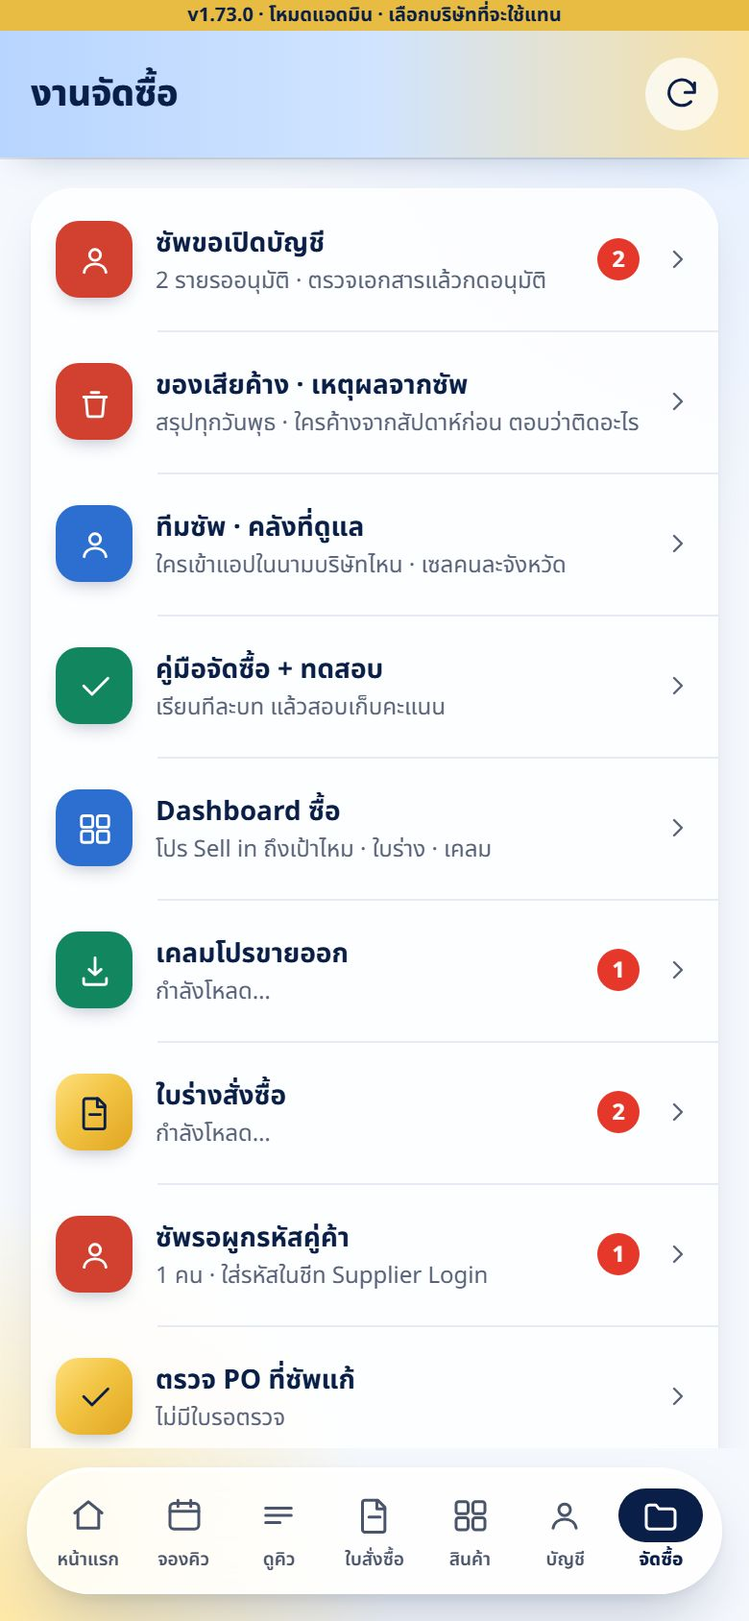
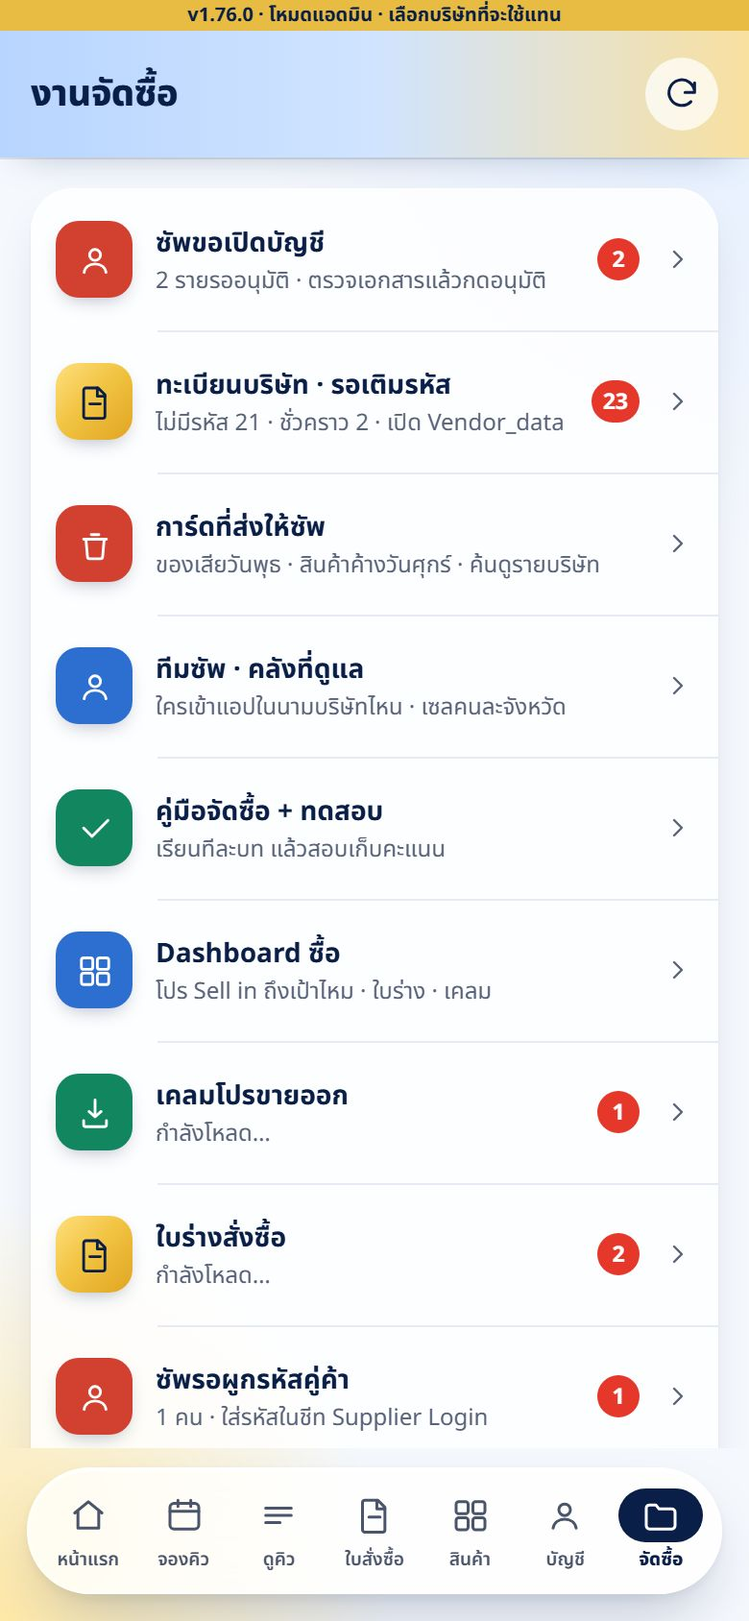
SupplyLink v1.76.0: หน้าจัดซื้อ การ์ดที่ส่งให้ซัพ (ของเสียพุธ + สินค้าค้างศุกร์ ค้นรายบริษัท) · คู่มือจัดซื้อ v1.6.0

diff --git a/supplylink-buyer-guide.html b/supplylink-buyer-guide.html
@@ -3,7 +3,7 @@
 <head>
 <meta charset="utf-8">
 <meta name="viewport" content="width=device-width,initial-scale=1,viewport-fit=cover">
-<title>คู่มือจัดซื้อ SupplyLink v1.5.0</title>
+<title>คู่มือจัดซื้อ SupplyLink v1.6.0</title>
 <link rel="preconnect" href="https://fonts.googleapis.com">
 <link href="https://fonts.googleapis.com/css2?family=Noto+Sans+Thai:wght@400;500;600;700&display=swap" rel="stylesheet">
 <style>
@@ -192,8 +192,8 @@ button{font:inherit;cursor:pointer}
 
 <script>
 (function () {
-  var VER = 'v1.5.0', APP = 'rattana-supplylink.html';
-  var IMG = {"bb":"supplylink-buyer-guide/bb.jpg","bcl":"supplylink-buyer-guide/bcl.jpg","bclo":"supplylink-buyer-guide/bclo.jpg","bclp":"supplylink-buyer-guide/bclp.jpg","bcls":"supplylink-buyer-guide/bcls.jpg","bd":"supplylink-buyer-guide/bd.jpg","bdc":"supplylink-buyer-guide/bdc.jpg","bdh":"supplylink-buyer-guide/bdh.jpg","bdn":"supplylink-buyer-guide/bdn.jpg","bdr":"supplylink-buyer-guide/bdr.jpg","bdw":"supplylink-buyer-guide/bdw.jpg","bh":"supplylink-buyer-guide/bh.jpg","binc":"supplylink-buyer-guide/binc.jpg","boa":"supplylink-buyer-guide/boa.jpg","bob":"supplylink-buyer-guide/bob.jpg","boc":"supplylink-buyer-guide/boc.jpg","bod":"supplylink-buyer-guide/bod.jpg","boe":"supplylink-buyer-guide/boe.jpg","bpd":"supplylink-buyer-guide/bpd.jpg","bpo":"supplylink-buyer-guide/bpo.jpg","bpr":"supplylink-buyer-guide/bpr.jpg","bq":"supplylink-buyer-guide/bq.jpg","brv":"supplylink-buyer-guide/brv.jpg","brvb":"supplylink-buyer-guide/brvb.jpg","brvo":"supplylink-buyer-guide/brvo.jpg","btc":"supplylink-buyer-guide/btc.jpg","bvr":"supplylink-buyer-guide/bvr.jpg","bvt":"supplylink-buyer-guide/bvt.jpg","dwa":"supplylink-buyer-guide/dwa.jpg"}, RECTS = {"bb":{"drafts":[16,320,358,74],"review":[16,468,358,74],"incrv":[16,542,358,74],"claims":[16,246,358,74],"prop":[16,616,358,74],"tabbuyer":[319,765,50,64]},"bcl":{"due":[19,215,69,44],"sup":[90,215,69,44],"pay":[161,215,69,44],"calc":[30,474,330,44]},"bclo":{"save":[98,631,250,44]},"bclp":{"paid":[30,504,151,44]},"bcls":{"send":[107,511,99,44]},"bd":{"row":[16,371,358,180],"send":[276,776,92,46]},"bdc":{"diff":[187,90,74,44],"sendpo":[30,396,330,44]},"bdh":{"dw":[16,172,358,74]},"bdn":{"remind":[30,398,149,44]},"bdr":{"xls":[268,776,100,46],"row":[16,361,358,316]},"bdw":{"ok":[152,454,208,44],"back":[30,454,114,44]},"bh":{"mine":[18,102,85,44],"pend":[16,174,174,111],"rv":[200,174,174,111],"late":[16,295,174,111],"qt":[200,295,174,111],"nob":[16,425,358,74],"tabhome":[21,765,50,64],"tabqueue":[120,765,50,64],"tabpo":[170,765,50,64],"tabproducts":[220,765,50,64],"tabbuyer":[319,765,50,64]},"binc":{"row":[16,265,358,305],"camp":[30,406,330,46],"ok":[173,514,187,44],"no":[30,514,133,44]},"boa":{"ob":[16,98,358,74]},"bob":{"row":[16,137,358,91]},"boc":{"docs":[16,267,358,173],"q":[53,502,309,26]},"bod":{"pick":[16,321,358,56],"rev":[16,525,358,44],"new":[16,433,358,58],"ok":[169,682,205,52],"no":[16,682,143,52]},"boe":{"pick":[16,170,358,56],"wh":[16,446,358,99],"ok":[169,682,205,52]},"bpd":{"back":[12,34,36,36]},"bpo":{"card":[16,268,358,107]},"bpr":{"row":[16,378,358,80],"pdf":[297,399,65,38]},"bq":{"row":[16,268,358,114],"meet":[117,204,79,44]},"brv":{"row":[64,276,310,128],"done":[105,92,87,44]},"brvb":{"ok":[169,682,205,52],"no":[16,682,143,52],"note":[30,550,330,68]},"brvo":{"diff":[16,103,358,172]},"btc":{"pick":[16,389,358,56],"chip":[295,398,66,20],"q":[53,262,275,26]},"bvr":{"reg":[16,172,358,74]},"bvt":{"wh":[29,286,332,99],"rev":[29,393,114,44],"q":[53,106,309,26]},"dwa":{"q":[54,92,308,26],"wait":[102,140,112,44],"row":[16,214,358,141]}};                                       /* แทนด้วยรูปตอน build */
+  var VER = 'v1.6.0', APP = 'rattana-supplylink.html';
+  var IMG = {"bb":"supplylink-buyer-guide/bb.jpg","bcl":"supplylink-buyer-guide/bcl.jpg","bclo":"supplylink-buyer-guide/bclo.jpg","bclp":"supplylink-buyer-guide/bclp.jpg","bcls":"supplylink-buyer-guide/bcls.jpg","bd":"supplylink-buyer-guide/bd.jpg","bdc":"supplylink-buyer-guide/bdc.jpg","bdh":"supplylink-buyer-guide/bdh.jpg","bdn":"supplylink-buyer-guide/bdn.jpg","bdr":"supplylink-buyer-guide/bdr.jpg","bdw":"supplylink-buyer-guide/bdw.jpg","bh":"supplylink-buyer-guide/bh.jpg","binc":"supplylink-buyer-guide/binc.jpg","boa":"supplylink-buyer-guide/boa.jpg","bob":"supplylink-buyer-guide/bob.jpg","boc":"supplylink-buyer-guide/boc.jpg","bod":"supplylink-buyer-guide/bod.jpg","boe":"supplylink-buyer-guide/boe.jpg","bpd":"supplylink-buyer-guide/bpd.jpg","bpo":"supplylink-buyer-guide/bpo.jpg","bpr":"supplylink-buyer-guide/bpr.jpg","bq":"supplylink-buyer-guide/bq.jpg","brv":"supplylink-buyer-guide/brv.jpg","brvb":"supplylink-buyer-guide/brvb.jpg","brvo":"supplylink-buyer-guide/brvo.jpg","btc":"supplylink-buyer-guide/btc.jpg","bvr":"supplylink-buyer-guide/bvr.jpg","bvt":"supplylink-buyer-guide/bvt.jpg","dwa":"supplylink-buyer-guide/dwa.jpg","swa":"supplylink-buyer-guide/swa.jpg"}, RECTS = {"bb":{"drafts":[16,320,358,74],"review":[16,468,358,74],"incrv":[16,542,358,74],"claims":[16,246,358,74],"prop":[16,616,358,74],"tabbuyer":[319,765,50,64]},"bcl":{"due":[19,215,69,44],"sup":[90,215,69,44],"pay":[161,215,69,44],"calc":[30,474,330,44]},"bclo":{"save":[98,631,250,44]},"bclp":{"paid":[30,504,151,44]},"bcls":{"send":[107,511,99,44]},"bd":{"row":[16,371,358,180],"send":[276,776,92,46]},"bdc":{"diff":[187,90,74,44],"sendpo":[30,396,330,44]},"bdh":{"dw":[16,246,358,74]},"bdn":{"remind":[30,398,149,44]},"bdr":{"xls":[268,776,100,46],"row":[16,361,358,316]},"bdw":{"ok":[152,454,208,44],"back":[30,454,114,44]},"bh":{"mine":[18,102,85,44],"pend":[16,174,174,111],"rv":[200,174,174,111],"late":[16,295,174,111],"qt":[200,295,174,111],"nob":[16,425,358,74],"tabhome":[21,765,50,64],"tabqueue":[120,765,50,64],"tabpo":[170,765,50,64],"tabproducts":[220,765,50,64],"tabbuyer":[319,765,50,64]},"binc":{"row":[16,265,358,305],"camp":[30,406,330,46],"ok":[173,514,187,44],"no":[30,514,133,44]},"boa":{"ob":[16,98,358,74]},"bob":{"row":[16,137,358,91]},"boc":{"docs":[16,267,358,173],"q":[53,502,309,26]},"bod":{"pick":[16,321,358,56],"rev":[16,525,358,44],"new":[16,433,358,58],"ok":[169,682,205,52],"no":[16,682,143,52]},"boe":{"pick":[16,170,358,56],"wh":[16,446,358,99],"ok":[169,682,205,52]},"bpd":{"back":[12,34,36,36]},"bpo":{"card":[16,268,358,107]},"bpr":{"row":[16,378,358,80],"pdf":[297,399,65,38]},"bq":{"row":[16,268,358,114],"meet":[117,204,79,44]},"brv":{"row":[64,276,310,128],"done":[105,92,87,44]},"brvb":{"ok":[169,682,205,52],"no":[16,682,143,52],"note":[30,550,330,68]},"brvo":{"diff":[16,103,358,172]},"btc":{"pick":[16,389,358,56],"chip":[295,398,66,20],"q":[53,262,275,26]},"bvr":{"reg":[16,172,358,74]},"bvt":{"wh":[29,286,332,99],"rev":[29,393,114,44],"q":[53,106,309,26]},"dwa":{"q":[54,92,308,26],"wait":[102,196,112,44],"row":[16,270,358,141]},"swa":{"tab":[119,140,109,44],"row":[16,214,358,118],"q":[54,92,308,26]}};                                       /* แทนด้วยรูปตอน build */
   var HAND = '<svg class="hand" viewBox="0 0 48 48" aria-hidden="true"><path d="M19 6c2 0 3.5 1.6 3.5 3.6V22l1-.1V18c0-2 1.6-3.4 3.4-3.4S30.3 16 30.3 18v4.4l1-.1v-2.6c0-1.9 1.5-3.3 3.3-3.3s3.3 1.5 3.3 3.3v3.6l.8-.1c1.8 0 3.3 1.5 3.3 3.3V34c0 6.6-5.4 12-12 12h-3.4c-3.8 0-7.4-1.8-9.6-4.9L8.5 30.6c-1-1.4-.7-3.4.7-4.4 1.4-1 3.3-.8 4.4.5l2 2.4V9.6C15.6 7.6 17.1 6 19 6z" fill="#fff" stroke="#0A1F47" stroke-width="2.4" stroke-linejoin="round"/></svg>';
   var FLOWCARD = function () {                              /* ส่งแล้วเกิดอะไรขึ้น: ซัพตอบ → จัดซื้อยืนยัน → เปิด PO จริง */
     var box = function (n, h, d, tone) { return '<div style="display:flex;gap:3cqw;align-items:flex-start;background:' + (tone || '#fff') + ';border-radius:4cqw;padding:3.6cqw 4cqw">' +
@@ -270,7 +270,7 @@ button{font:inherit;cursor:pointer}
       { img:'bclp', r:'@bclp.paid', h:'บันทึกว่าได้รับแล้ว', d:'ได้ CN / เงินโอน / สินค้าแล้ว ใส่เลขเอกสารรับ · ปิดรอบ' },
       { img:'bcl', r:'@bcl.pay', h:'ติดตามรอบที่ค้าง', d:'"รอซัพ" = ยังไม่เซ็นรับทราบ · "รอรับเงิน" = ซัพรับทราบแล้ว รอจ่าย' }
     ], end:'ซัพไม่เห็นหน้าเคลมในแอป เห็นแค่ยอดที่เราส่งให้รับทราบ · Excel ใบเคลมดาวน์โหลดได้ในหน้ารอบ' },
-    { k:'defect', t:'ของเสียที่ซัพนัดเคลียร์ · เหตุผลที่ค้าง', g:'ของเสีย', s:'นัด วิธีเคลียร์ · ของเสียค้าง', n:9, steps:[
+    { k:'defect', t:'ของเสียที่ซัพนัดเคลียร์ · เหตุผลที่ค้าง', g:'ของเสีย', s:'นัด วิธีเคลียร์ · ของเสียค้าง', n:10, steps:[
       { html:function () { return LINECARD('นัดเคลียร์ของเสีย', 'นัด DF6911-004', [['บริษัท', 'บริษัท ตัวอย่าง จำกัด'], ['คลัง', 'คลังสมุทรสงคราม'], ['วิธี', 'เปลี่ยนสินค้า'], ['วันนัด', '6 พ.ย. 2569'], ['รายการ', '3 รายการ · 5.2 ลัง']], null, 'เปิดดูในแอป'); }, el:'lbtn',
         h:'ซัพส่งนัดมาในแชท', d:'การ์ดนัดเคลียร์ของเสียเข้าแชท RTNPurchase ทุกครั้งที่ซัพส่งนัด' },
       { html:function () { return INFO('ซัพเคลียร์ของเสียได้ 4 วิธี', [['เปลี่ยนสินค้า', 'ซัพนำของดีมาเปลี่ยน ตามจำนวนที่เสีย'], ['ออกใบลดหนี้ (CN)', 'ซัพออก CN ตามมูลค่าของเสีย'], ['เปิดบิลขาย + โอนย้าย', 'รัตนเปิดบิลขายของเสียให้ซัพ แล้วโอนของออก'], ['เอาไปก่อน', 'เฉพาะบางเจ้า (เช่น ThaiBev) รับของไปก่อนแล้วค่อยเคลียร์']]); }, el:'lbtn', notip:true,
@@ -279,8 +279,9 @@ button{font:inherit;cursor:pointer}
         h:'ดูนัดได้ 2 ที่', d:'แตะ "เข้าใจแล้ว"' },
       { html:function () { return INFO('ทุกวันพุธ 08:00', [['สรุปของเสียรายสัปดาห์', 'ระบบส่งการ์ดสรุปของเสียที่ค้างให้ซัพทุกบริษัทที่ผูก LINE แยกตามคลัง'], ['ซัพนัดแล้ว', 'ทุกรายการนัดไว้และยังไม่ถึงวันนัด = ไม่ส่งซ้ำ'], ['วันหยุด', 'พุธตรงวันหยุด งดรอบนั้น']]); }, el:'lbtn', notip:true,
         h:'ระบบตามให้เอง', d:'แตะ "เข้าใจแล้ว"' },
-      { img:'bdh', r:'@bdh.dw', h:'จัดซื้อ › ของเสียค้าง', d:'ทุกวันพุธระบบเก็บสรุปของเสียบริษัทละ 1 แถว (กี่ SKU · กี่บาท · ท็อป 3) ลงแท็บ Defect Weekly' },
+      { img:'bdh', r:'@bdh.dw', h:'จัดซื้อ › การ์ดที่ส่งให้ซัพ', d:'การ์ดที่ระบบส่งไม่ขึ้นในแชท LINE OA · ดูที่นี่แทน ค้นชื่อบริษัทได้ · ส่งครบรอบแล้วมีสรุปเข้ากลุ่ม Rattana Purchasing Team' },
       { img:'dwa', r:'@dwa.wait', h:'ค้าง ยังไม่ตอบ', d:'ของเดิมสัปดาห์ก่อนยังไม่เคลียร์ = ซัพต้องตอบเหตุผลในแอป · ตอบแล้วได้การ์ด LINE ทันที' },
+      { img:'swa', r:'@swa.tab', h:'สินค้าค้าง · ศุกร์', d:'กี่ SKU กี่ลัง มูลค่า S01 ที่ส่งไปรอบล่าสุด · แตะบริษัท = เห็นรายการเดียวกับการ์ด' },
       { img:'dwa', r:'@dwa.row', h:'แตะบริษัท', d:'เปิดหน้าของเสียของบริษัทนั้น เห็นเหตุผลที่ซัพตอบ + ประวัติทุกสัปดาห์' },
       { html:function () { return INFO('ทุกวันศุกร์ 08:00', [['การ์ดที่ 1 · ไม่ระบายเลย', 'ไม่มียอดขาย 30 วัน (ขายส่งทุกคลัง + รัตนมาร์ท) และของเข้ามาเกิน 30 วัน'], ['การ์ดที่ 2 · ระบายช้า', 'พอขายเกิน 30 วัน'], ['มูลค่า', 'ลัง × ราคาส่ง S01 · ท็อป 5 ตามมูลค่า'], ['ซัพเห็นในแอป', 'หน้าแรก › สินค้าค้าง · เซลเห็นเฉพาะคลังที่ดูแล']]); }, el:'lbtn', notip:true,
         h:'สินค้าค้างวันศุกร์', d:'แตะ "เข้าใจแล้ว"' },

diff --git a/rattana-supplylink.html b/rattana-supplylink.html
@@ -3,7 +3,7 @@
 <head>
 <meta charset="utf-8">
 <meta name="viewport" content="width=device-width, initial-scale=1, viewport-fit=cover">
-<title>SupplyLink — คู่ค้ารัตนไพบูลย์ v1.75.0</title>
+<title>SupplyLink — คู่ค้ารัตนไพบูลย์ v1.76.0</title>
 <meta name="theme-color" content="#B8D5FF">
 <link rel="icon" type="image/png" sizes="64x64" href="icons/rattana-supplylink-64.png">
 <link rel="icon" type="image/png" sizes="256x256" href="icons/rattana-supplylink.png">
@@ -2024,7 +2024,7 @@ body{font-family:var(--font);
 
 /* ══ ตั้งค่า — แก้ตรงนี้ที่เดียว ══ */
 var CONFIG = {
-  APP_VERSION: 'v1.75.0',
+  APP_VERSION: 'v1.76.0',
   /* LIFF ของแอปนี้: LINE Developers → provider RTNPurchase → channel "RTNPurchase Supplier" (2011693023) → แท็บ LIFF
      ต้องอยู่ channel เดียวกับระบบลงทะเบียนเดิม ถึงจะได้ LINE User ID ตรงกับแท็บ Login Users · ว่าง = ยังไม่เปิดใช้จริง */
   LIFF_ID: '2011693023-xbdsN1K7',
@@ -3398,6 +3398,7 @@ function demoDo(action, p){
   var D = DEMO, now = bkkNow(), stamp = now.iso + ' ' + hhmm(now.min) + ':00';
   function poOf(id){ return D.pos.filter(function (x) { return x.id === id; })[0]; }
   if (action === 'bundle') return { ok:true, data:demoBundle() };
+  if (action === 'stkWeekList') return { ok:true, rows:[{ d:now.iso, code:'DEMO-001', name:'บริษัท ตัวอย่าง จำกัด', noSku:2, noCs:4.3, noBaht:3120, slowSku:3, slowCs:61, slowBaht:59840, sent:'ส่งแล้ว' }, { d:now.iso, code:'DEMO-002', name:'บจก. ตัวอย่างสอง', noSku:0, noCs:0, noBaht:0, slowSku:5, slowCs:22, slowBaht:18400, sent:'ส่งแล้ว' }] };
   if (action === 'stuckList') { var lv = stkLive(); return { ok:true, d:'', no:lv.no, slow:lv.slow }; }
   if (action === 'defWeekList') { if (!D.dw) D.dw = [{ d:now.iso, code:VENDOR.code || 'DEMO-001', name:'บริษัท ตัวอย่าง จำกัด', sku:3, n:4, baht:4280, top:['นมเปรี้ยว 80 มล. · 2 ลัง · ฿1,920', 'นมกล่อง 225 มล. · 1 ลัง · ฿1,450', 'โยเกิร์ตถ้วย · 12 ชิ้น · ฿910'], carry:2, carryBaht:3370, carryTop:'นมเปรี้ยว 80 มล. และอีก 1 รายการ', why:'', note:'', by:'', at:'' },
       { d:isoAdd(now.iso, -7), code:'DEMO-001', name:'บริษัท ตัวอย่าง จำกัด', sku:2, n:2, baht:3370, top:['นมเปรี้ยว 80 มล. · 2 ลัง · ฿1,920', 'นมกล่อง 225 มล. · 1 ลัง · ฿1,450'], carry:0, carryBaht:0, carryTop:'', why:'', note:'', by:'', at:'' },
@@ -4076,22 +4077,40 @@ function dwHist(){
   return '<div class="sect" style="gap:var(--gap-card)" data-tweak="สรุปของเสียรายสัปดาห์"><div class="sect-h"><b>สรุปของเสียรายสัปดาห์</b></div>'+
     rows.slice(0, 8).map(function (r) { return dwRowHtml(r, false); }).join('') + '</div>';
 }
+var SW = { rows:null, busy:false, err:'', at:0 };
+function swLoad(force){
+  if (SW.busy || (!force && SW.at && Date.now() - SW.at < 300000)) return;
+  SW.busy = true;
+  api('stkWeekList', {}).then(function (r) { SW.rows = r.rows || []; SW.err = ''; }, function (e) { SW.err = errText(e); SW.rows = SW.rows || []; })
+    .then(function () { SW.busy = false; SW.at = Date.now(); if (S.route === 'defweek') softRender(); });
+}
+function swRowHtml(r){
+  var tot = (r.noBaht || 0) + (r.slowBaht || 0);
+  return '<button data-act="swopen:' + esc(r.code) + '" class="card" style="display:flex;flex-direction:column;gap:4px;text-align:left;width:100%;border:0" data-tweak-card="สรุปสินค้าค้างรายสัปดาห์">'+
+    '<div class="flexrow" style="gap:8px;min-width:0"><b class="grow one" style="font-size:14.5px" title="' + esc(r.name) + '">' + esc(r.name) + '</b><span class="chip ' + (r.sent === 'ส่งแล้ว' ? 'teal' : 'grey') + '" style="flex-shrink:0">' + esc(r.sent || '—') + '</span></div>'+
+    '<span class="one dim" style="font-size:12px">' + esc(thShort(r.d) + ' · มูลค่า S01 ' + dwBaht(tot)) + '</span>'+
+    '<span class="one" style="font-size:12.5px">ไม่ระบาย ' + fmtN(r.noSku) + ' SKU · ' + fmtN(Math.round(r.noCs)) + ' ลัง · ' + dwBaht(r.noBaht) + '</span>'+
+    '<span class="one" style="font-size:12.5px">ระบายช้า ' + fmtN(r.slowSku) + ' SKU · ' + fmtN(Math.round(r.slowCs)) + ' ลัง · ' + dwBaht(r.slowBaht) + '</span></button>';
+}
 V.defweek = function () {
-  dwLoad(false);
-  var all = DW.code === '*' && DW.rows || null, f = S.dwF || 'all';
+  var fri = S.swTab === 'fri';
+  if (fri) swLoad(false); else dwLoad(false);
+  var all = fri ? SW.rows : (DW.code === '*' && DW.rows || null), f = fri ? 'all' : (S.dwF || 'all');
   var words = String(S.dwq || '').trim().toLowerCase().split(/\s+/).filter(Boolean);
-  var base = (all || []).filter(function (r) { var hay = [r.code, r.name, r.why, r.note, r.by, (r.top || []).join(' '), r.carryTop, thShort(r.d)].join(' ').toLowerCase(); return words.every(function (w) { return hay.indexOf(w) >= 0; }); });
+  var base = (all || []).filter(function (r) { var hay = [r.code, r.name, r.why, r.note, r.by, (r.top || []).join(' '), r.carryTop, r.sent, thShort(r.d)].join(' ').toLowerCase(); return words.every(function (w) { return hay.indexOf(w) >= 0; }); });
   var F2 = { all:function () { return true; }, wait:function (r) { return r.carry && !r.why; }, ans:function (r) { return r.carry && r.why; } };
   var list = base.filter(F2[f] || F2.all);
-  return '<div class="scr" id="s-defweek">' + hdr('ของเสียค้าง · ทุกบริษัท', 'buyer', '<button class="iconbtn" data-act="dwreload" aria-label="ดึงข้อมูลใหม่">' + ic('refresh', 19) + '</button>')+
+  return '<div class="scr" id="s-defweek">' + hdr('การ์ดที่ส่งให้ซัพ', 'buyer', '<button class="iconbtn" data-act="dwreload" aria-label="ดึงข้อมูลใหม่">' + ic('refresh', 19) + '</button>')+
     '<div class="hdrx" style="flex-shrink:0;padding:0 var(--pad-screen) 12px">'+
-      '<div class="sb' + (S.dwq ? ' has' : '') + '">' + ic('search', 18, 'var(--ink-4)') + '<input id="dwq" autocomplete="off" placeholder="ค้นบริษัท · รหัส · สินค้า · เหตุผล" value="' + esc(S.dwq || '') + '" aria-label="ค้นหาของเสียค้าง"><button class="x" data-act="dwqx" aria-label="ล้างการค้นหาและฟิลเตอร์">✕</button></div>'+
-      '<div class="filters" style="margin-top:10px">' + [['all', 'ทั้งหมด ' + base.length], ['wait', 'ค้าง ยังไม่ตอบ ' + base.filter(F2.wait).length], ['ans', 'ตอบแล้ว ' + base.filter(F2.ans).length]].map(function (x) {
-        return '<button class="tag navtag" aria-pressed="' + (f === x[0]) + '" data-act="dwf:' + x[0] + '">' + x[1] + '</button>'; }).join('') + '</div></div>'+
+      '<div class="sb' + (S.dwq ? ' has' : '') + '">' + ic('search', 18, 'var(--ink-4)') + '<input id="dwq" autocomplete="off" placeholder="ค้นบริษัท · รหัส' + (fri ? '' : ' · สินค้า · เหตุผล') + '" value="' + esc(S.dwq || '') + '" aria-label="ค้นหาของเสียค้าง"><button class="x" data-act="dwqx" aria-label="ล้างการค้นหาและฟิลเตอร์">✕</button></div>'+
+      '<div class="filters" style="margin-top:10px">' + [['def', 'ของเสีย · พุธ'], ['fri', 'สินค้าค้าง · ศุกร์']].map(function (x) {
+        return '<button class="tag navtag" aria-pressed="' + ((fri ? 'fri' : 'def') === x[0]) + '" data-act="swtab:' + x[0] + '">' + x[1] + '</button>'; }).join('') + '</div>'+
+      (fri ? '' : '<div class="filters" style="margin-top:8px">' + [['all', 'ทั้งหมด ' + base.length], ['wait', 'ค้าง ยังไม่ตอบ ' + base.filter(F2.wait).length], ['ans', 'ตอบแล้ว ' + base.filter(F2.ans).length]].map(function (x) {
+        return '<button class="tag" aria-pressed="' + (f === x[0]) + '" data-act="dwf:' + x[0] + '">' + x[1] + '</button>'; }).join('') + '</div>') + '</div>'+
     '<div class="body" data-tweak="ลิสต์ของเสียค้างทุกบริษัท" style="gap:var(--gap-card)">'+
-      (!all ? (DW.err ? '<div class="card flat empty">โหลดไม่สำเร็จ · ' + esc(DW.err) + '</div>' : skeletonHtml())
-        : list.length ? list.slice(0, 150).map(function (r) { return dwRowHtml(r, true); }).join('') : '<div class="empty">' + (all.length ? 'ไม่พบที่ตรงกับที่ค้น' : 'ยังไม่มีสรุป · ระบบเก็บทุกวันพุธ 08:00') + '</div>')+
-      '<div class="one dim" style="font-size:11.5px;text-align:center">สัปดาห์ล่าสุดของแต่ละบริษัท · แตะ = เปิดหน้าของเสียของบริษัทนั้น</div>'+
+      (!all ? ((fri ? SW.err : DW.err) ? '<div class="card flat empty">โหลดไม่สำเร็จ · ' + esc(fri ? SW.err : DW.err) + '</div>' : skeletonHtml())
+        : list.length ? list.slice(0, 150).map(function (r) { return fri ? swRowHtml(r) : dwRowHtml(r, true); }).join('') : '<div class="empty">' + (all.length ? 'ไม่พบที่ตรงกับที่ค้น' : (fri ? 'ยังไม่มีรอบ · ระบบส่งทุกวันศุกร์ 08:00' : 'ยังไม่มีสรุป · ระบบเก็บทุกวันพุธ 08:00')) + '</div>')+
+      '<div class="one dim" style="font-size:11.5px;text-align:center">รอบล่าสุด · แตะ = ดูรายการเดียวกับการ์ดที่ส่ง</div>'+
     '</div></div>';
 };
 
@@ -6499,7 +6518,7 @@ V.buyer = function () {
       '<div class="rows glist" data-tweak-card="ทางลัดงานจัดซื้อ">'+
         bShort('go:onboard', 'user', 'tk-def', 'ซัพขอเปิดบัญชี', bc.ob ? bc.ob + ' รายรออนุมัติ · ตรวจเอกสารแล้วกดอนุมัติ' : 'ไม่มีคำขอรอ', bc.ob || 0)+
         ((bc.vdNo || bc.vdTemp) && bc.vdUrl ? bShort('oburl:' + bc.vdUrl, 'doc', 'tk-po', 'ทะเบียนบริษัท · รอเติมรหัส', [bc.vdNo ? 'ไม่มีรหัส ' + bc.vdNo : '', bc.vdTemp ? 'ชั่วคราว ' + bc.vdTemp : ''].filter(Boolean).join(' · ') + ' · เปิด Vendor_data', (bc.vdNo || 0) + (bc.vdTemp || 0)) : '')+
-        bShort('go:defweek', 'trash', 'tk-def', 'ของเสียค้าง · เหตุผลจากซัพ', 'สรุปทุกวันพุธ · ใครค้างจากสัปดาห์ก่อน ตอบว่าติดอะไร', 0)+
+        bShort('go:defweek', 'trash', 'tk-def', 'การ์ดที่ส่งให้ซัพ', 'ของเสียวันพุธ · สินค้าค้างวันศุกร์ · ค้นดูรายบริษัท', 0)+
         bShort('go:vteam', 'user', 'tk-prod', 'ทีมซัพ · คลังที่ดูแล', 'ใครเข้าแอปในนามบริษัทไหน · เซลคนละจังหวัด', 0)+
         bShort('train', 'check', 'tk-book', 'คู่มือจัดซื้อ + ทดสอบ', 'เรียนทีละบท แล้วสอบเก็บคะแนน', 0)+
         bShort('go:buydash', 'grid', 'tk-prod', 'Dashboard ซื้อ', 'โปร Sell in ถึงเป้าไหม · ใบร่าง · เคลม', 0)+
@@ -9455,6 +9474,7 @@ function startApp(){
   if (r === 'product' && upid) { var pp = P[upid] || PRODUCTS.filter(function (x) { return (x.codes || []).indexOf(upid) >= 0; })[0]; if (pp) S.prodId = pp.id; else r = 'products'; }
   if (r === 'product' && !S.prodId) r = 'products';
   if (r === 'stuck') S.stkTab = ut === 'slow' ? 'slow' : 'no';
+  if (r === 'defweek') S.swTab = ut === 'fri' ? 'fri' : 'def';
   if (upo && (r === 'podetail' || r === 'poconfirm') && poById(upo)) S.poId = upo;
   if (upo && r === 'book') {
     var ubp = poById(upo);
@@ -9959,8 +9979,10 @@ document.addEventListener('click', function (e) {
   }
   if (k === 'dwf') { S.dwF = v; return softRender(); }
   if (k === 'dwqx') { S.dwq = ''; S.dwF = 'all'; softRender(); var dq = $('dwq'); if (dq) dq.focus({ preventScroll:true }); return; }
-  if (k === 'dwreload') { DW.at = 0; DW.rows = null; dwLoad(true); return softRender(); }
+  if (k === 'dwreload') { if (S.swTab === 'fri') { SW.at = 0; SW.rows = null; swLoad(true); } else { DW.at = 0; DW.rows = null; dwLoad(true); } return softRender(); }
   if (k === 'dwopen') return openFromAll(v, function () { go('defect'); });
+  if (k === 'swopen') return openFromAll(v, function () { S.stkTab = 'no'; go('stuck'); });
+  if (k === 'swtab') { S.swTab = v; S.dwq = ''; return softRender(); }
   if (k === 'stktab') { S.stkTab = v; return softRender(); }
   if (k === 'vtqx') { S.vtq = ''; render(); var vq = $('vtq'); if (vq) vq.focus({ preventScroll:true }); return; }
   if (k === 'vtpick') { S.vtq = ''; return vtLoad(v); }
